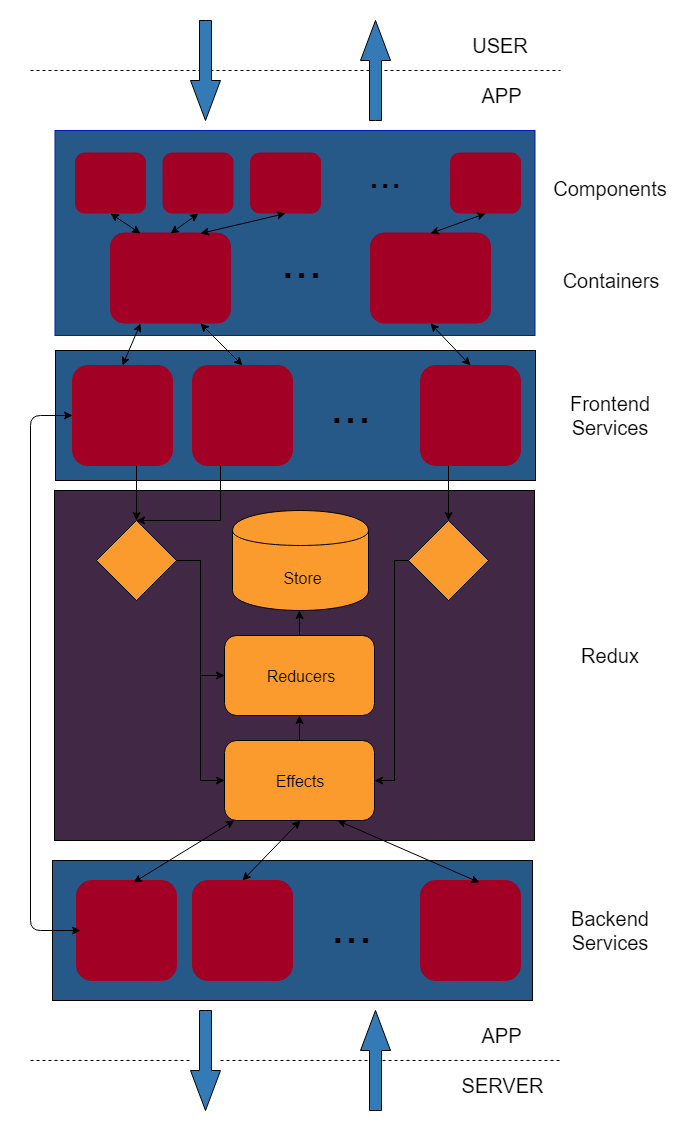
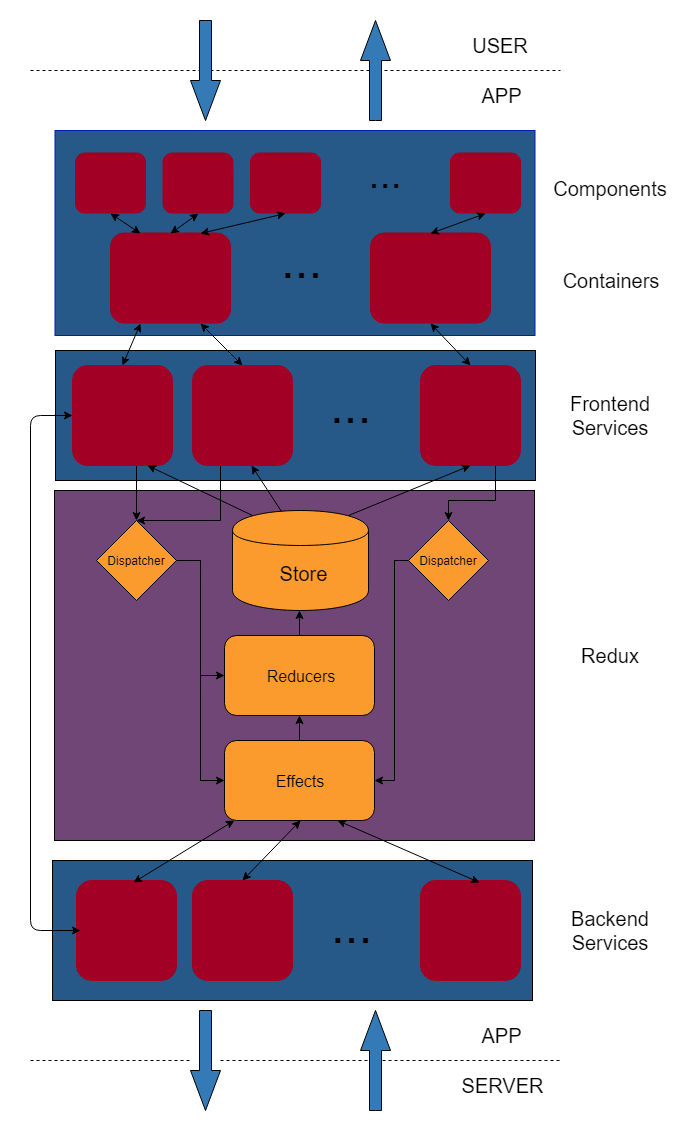
Updated architecture chart and technical specification.

Changed region(s): [[0.0608, 0.4294, 0.7902, 0.7362]]

diff --git a/docs/technical-specification.md b/docs/technical-specification.md
@@ -1,3 +1,45 @@
-## Architecture / Data Flow
+# Technical Specification
 
-![Architecture Chart](architecture.png)
+## Architecture/Dataflow Chart
+
+![Architecture/Dataflow Chart](architecture.png)
+
+## Overview
+
+The sections below describe architecture layers used in this application, as  well as give some rationale and general implementation guidelines.
+
+## Components
+
+"Presentational" or "dumb" components are the basic user interface (UI) building blocks. Here's where data gets displayed to the user. A component has a simple interface and no knowledge of or dependencies to other parts of application. It is stateless from application's point of view, but can keep some internal state for its own purposes. A well-designed component is easy to test, maintain and reuse.
+
+A larger component may make use of one or more smaller components.
+
+## Containers
+
+"Containers" or "smart components" implement a part of application logic. A container glues together sub-containers and components and provides them with data. It usually also listens to and handles their events.
+
+In a simple scenario without state management framework and no abstraction layers, a container may do all (external) data access and storage itself, but that's not a recommended practice. Almost always, at least data access logic should be [abstracted away to a backend service](##backend-services).
+
+A container should not be too difficult to unit-test (using mocked sub-containers and components). It also serves as a good entry point for integration tests. Inherent specificity makes a container less likely to be reused, but we should always look to refactor (parts of) it to reusable components and keep its code to a minimum.
+
+Typically, we have a root container that hosts several page containers, which in turn may include one or more sub-containers.
+
+## Frontend Services
+
+This layer is entirely optional. Containers may well access redux and backend services layers directly. It is being used in this application mainly to demonstrate one way of making containers not depend on a particular state management solution (in this case NgRx).
+
+A frontend service should have a well-defined and easy-to-use interface (a facade) that simplifies data access for containers. It's best kept stateless, which reduces testing and maintenance efforts.
+
+Frontend services are not to be confused with utility services.
+
+## Redux
+
+### Store
+
+### Dispatchers
+
+### Reducers
+
+### Effects
+
+## Backend Services
